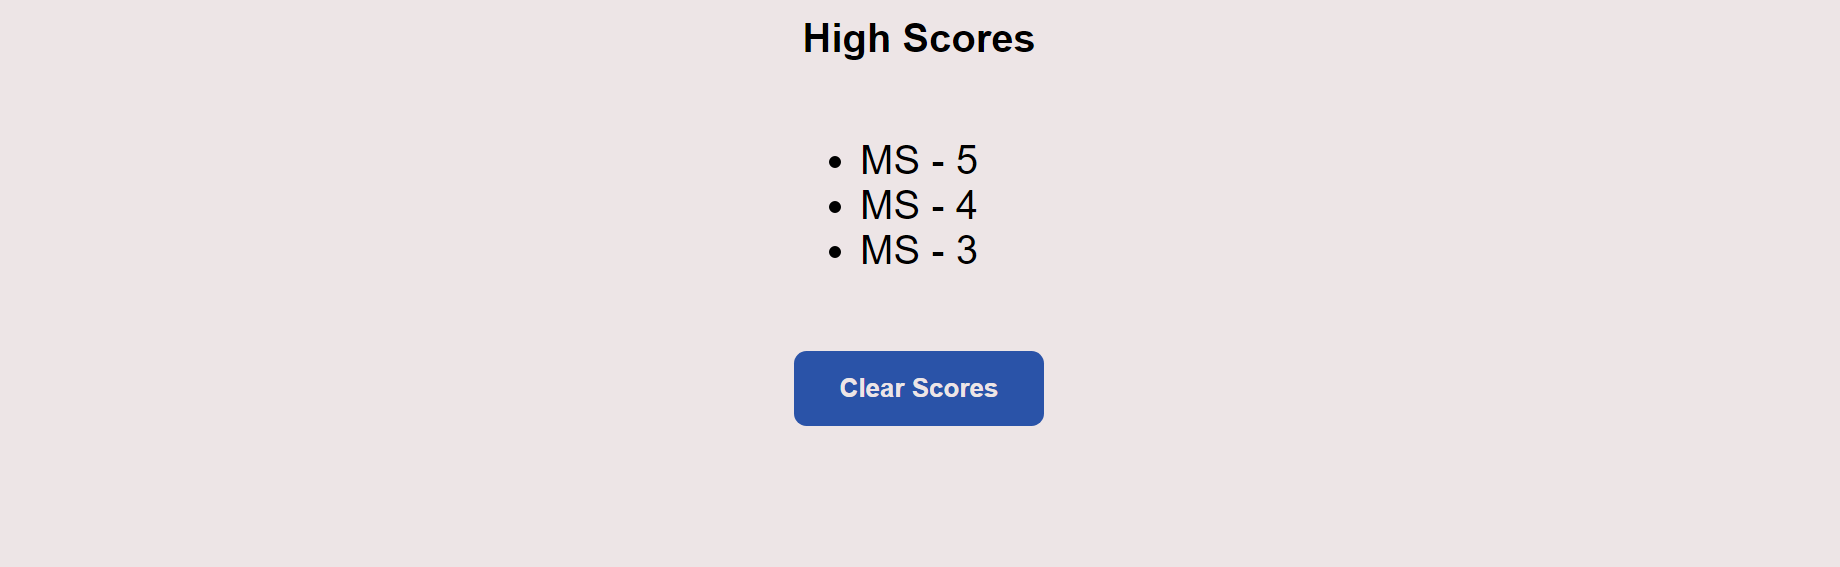
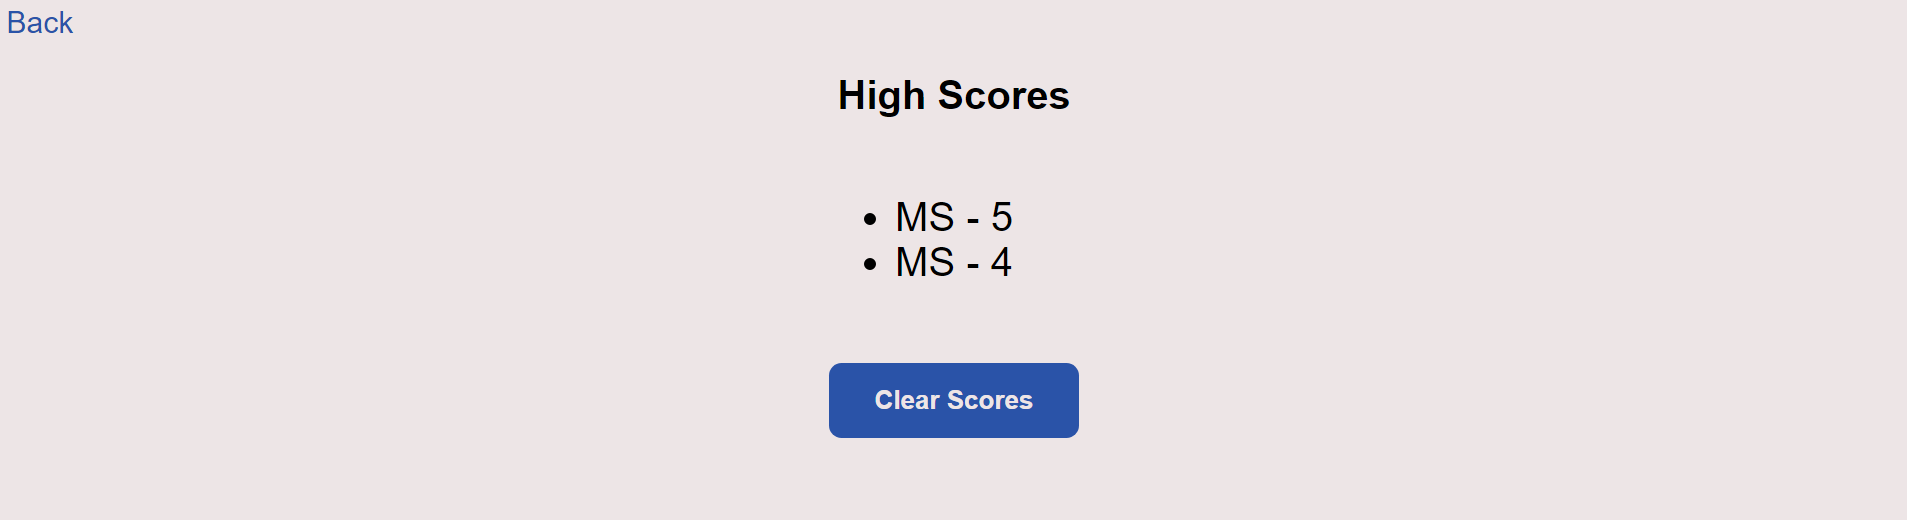
added extra back button and info, updated css

diff --git a/assets/css/style.css b/assets/css/style.css
@@ -17,6 +17,17 @@
     font-family: Arial, Helvetica, sans-serif;
   }
 
+  #back {
+    display: flex;
+    margin: 5px;
+    padding: 5px;
+  }
+
+  #info {
+    display: flex;
+    justify-content: center;
+  }
+
   h1 {
     display: flex;
     justify-content: center;
@@ -118,8 +129,9 @@
 }
 
 @media (max-width: 991px) {
-  body{
+  body {
     background-color: var(--white-color);
+    font-family: Arial, Helvetica, sans-serif;
   }
 
   #timer {
@@ -156,10 +168,44 @@
     justify-content: space-evenly;
   }
 
+  #info {
+    display: flex;
+    justify-content: center;
+  }
+
   button {
     width: 100%;
-    height: 35px;
+    height: 40px;
     font-size: 0.8em;
+    background: var(--dark-blue);
+    border: 0px transparent var(--dark-blue);
+    margin: 5px;
+    padding: 0px;
+    font-size: 1.3em;
+    color: var(--white-color);
+  }
+
+  button:hover {
+    background-color: var(--light-blue);
+    cursor: pointer;
+  }
+
+  .top-container {
+    display: flex;
+    align-items: center;
+    justify-content: space-between;
+    margin: 3px;
+    padding: 0px;
+    align-items: center;
+  }
+  
+  a {
+    color: var(--dark-blue);
+    text-decoration: none;
+  }
+
+  a:hover {
+    text-decoration: underline;
   }
 
   h1 {

diff --git a/high-scores.html b/high-scores.html
@@ -1,16 +1,17 @@
 <!DOCTYPE html>
 <html lang="en">
-<head>
-  <meta charset="UTF-8">
-  <meta http-equiv="X-UA-Compatible" content="IE=edge">
-  <meta name="viewport" content="width=device-width, initial-scale=1.0">
-  <title>View High Scores</title>
-  <link rel="stylesheet" href="assets/css/style.css">
+  <head>
+    <meta charset="UTF-8" />
+    <meta http-equiv="X-UA-Compatible" content="IE=edge" />
+    <meta name="viewport" content="width=device-width, initial-scale=1.0" />
+    <title>View High Scores</title>
+    <link rel="stylesheet" href="assets/css/style.css" />
   </head>
   <body>
+    <a id="back" href="index.html">Back</a>
     <h1>High Scores</h1>
     <ul id="high-scores"></ul>
     <button id="clear-saves">Clear Scores</button>
     <script src="assets/javascript/high-scores.js"></script>
-</body>
+  </body>
 </html>

diff --git a/assets/javascript/quiz.js b/assets/javascript/quiz.js
@@ -40,8 +40,9 @@ const timerElement = document.getElementById("timer");
 const questionElement = document.getElementById("question");
 const optionsElement = document.getElementById("options");
 const startButton = document.getElementById("start");
+const infoElement = document.getElementById("info");
 
-const timerDuration = 60;
+const timerDuration = 90;
 
 let currentQuestionIndex = 0;
 let timeLeft = timerDuration;
@@ -92,9 +93,11 @@ function updateTimer() {
 
 function startQuiz() {
   startButton.remove();
+  infoElement.remove();
   timerInterval = setInterval(updateTimer, 1000);
   displayQuestion();
 }
+
 
 function endQuiz() {
   clearInterval(timerInterval);

diff --git a/index.html b/index.html
@@ -10,9 +10,10 @@
   <body>
     <nav class="top-container">
       <a id="link" href="high-scores.html">View high scores</a>
-      <div id="timer">Time: 60</div>
+      <div id="timer">Time: 90</div>
     </nav>
     <h1>JavaScript Coding Quiz</h1>
+    <p id="info">Each question answered incorrectly will reduce your time by 10 seconds.</p>
     <div id="question"></div>
     <div id="options"></div>
     <button id="start">Start Quiz</button>
